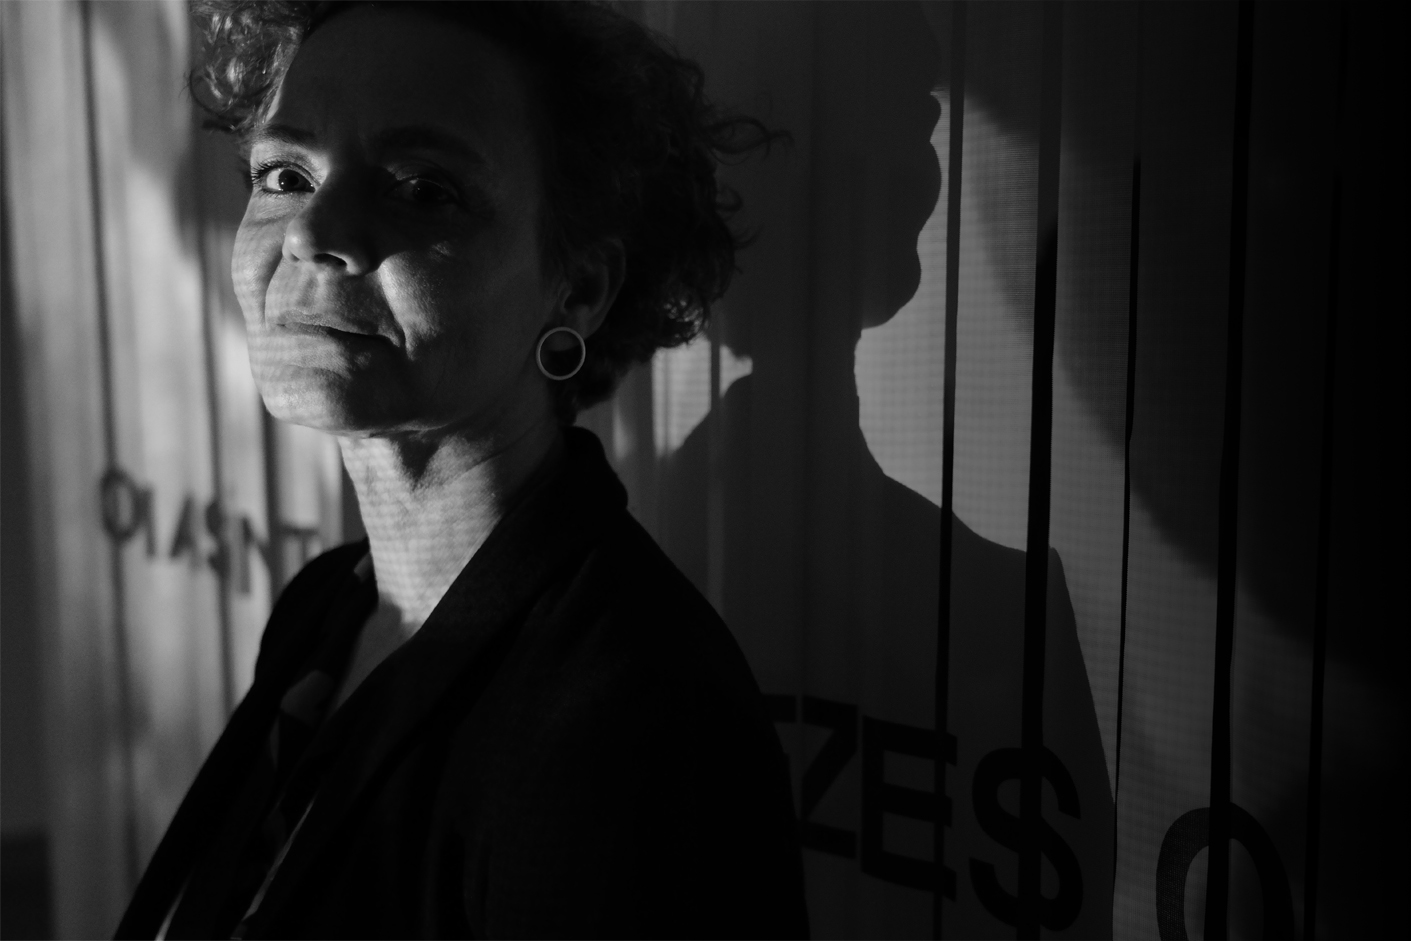
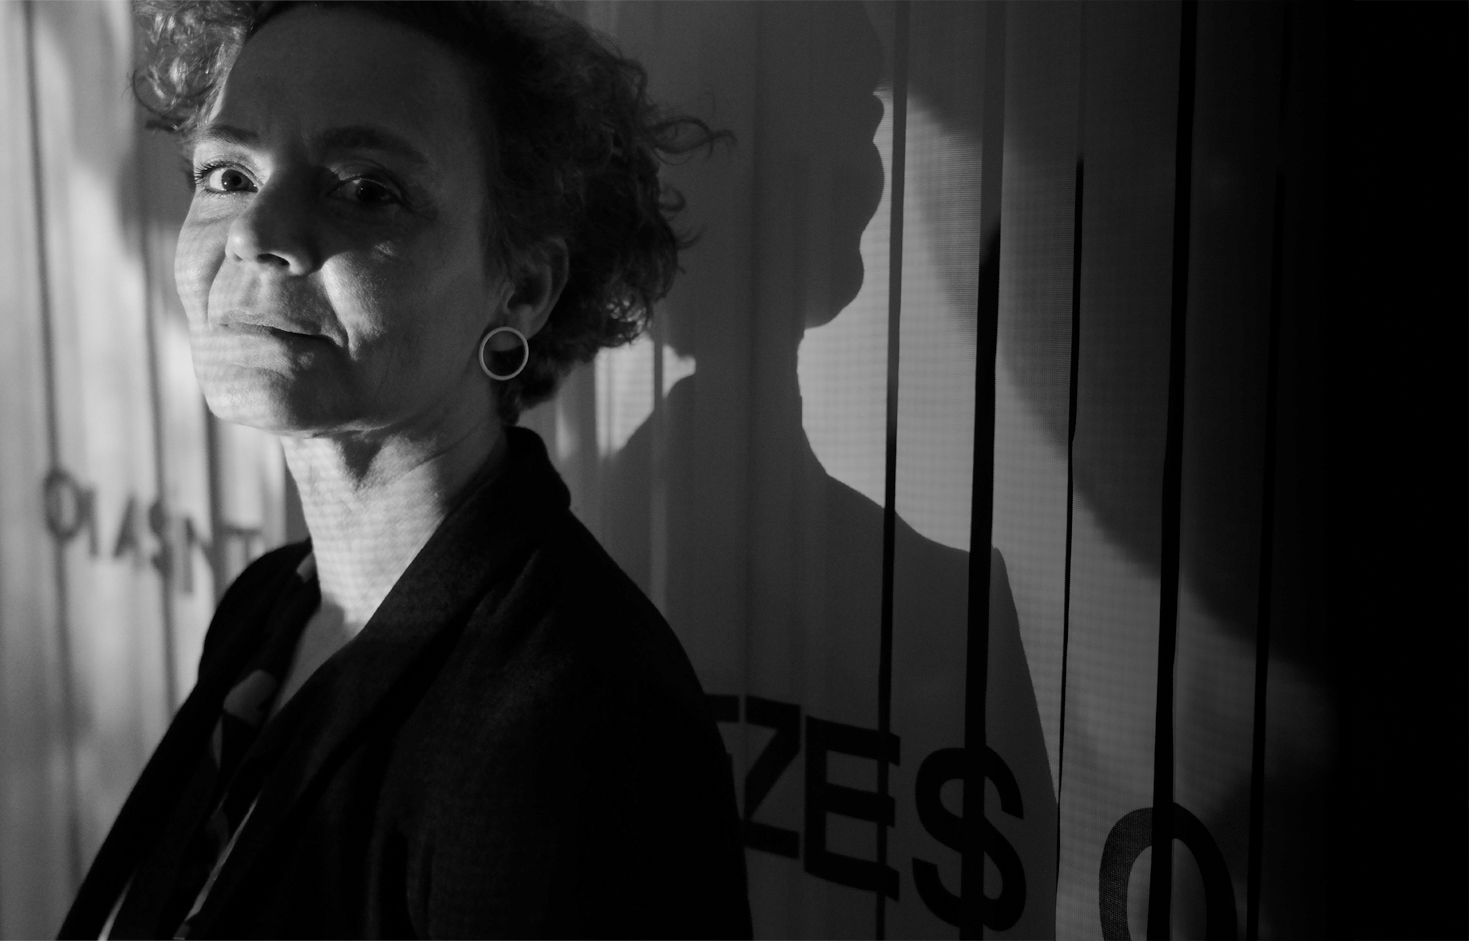
feat: new

diff --git a/src/components/IntroLoader.jsx b/src/components/IntroLoader.jsx
@@ -12,9 +12,12 @@ export function IntroLoader({ onFadeStart, onFinish }) {
 	const [isVisible, setIsVisible] = useState(true);
 	const [isDesktop, setIsDesktop] = useState(true);
 	const [videoReady, setVideoReady] = useState(false);
+	const [hasStarted, setHasStarted] = useState(false);
 
 	const videoRef = useRef(null);
 	const firedFadeRef = useRef(false);
+	const finishTimerRef = useRef(null);
+	const titleTimerRef = useRef(null);
 
 	const videoSrc = isDesktop ? videoDesktop : videoMobile;
 	const posterSrc = isDesktop ? posterDesktop : posterMobile;
@@ -26,6 +29,7 @@ export function IntroLoader({ onFadeStart, onFinish }) {
 		const apply = () => {
 			setIsDesktop(mq.matches);
 			setVideoReady(false);
+			setHasStarted(false);
 		};
 
 		apply();
@@ -35,43 +39,95 @@ export function IntroLoader({ onFadeStart, onFinish }) {
 	}, []);
 
 	useEffect(() => {
+		titleTimerRef.current = setTimeout(() => setShowTitle(true), 2000);
+		return () => clearTimeout(titleTimerRef.current);
+	}, []);
+
+	useEffect(() => {
 		const video = videoRef.current;
 		if (!video) return;
+
+		let cancelled = false;
+
+		const clearFinishTimer = () => {
+			if (finishTimerRef.current) {
+				clearTimeout(finishTimerRef.current);
+				finishTimerRef.current = null;
+			}
+		};
+
+		const startExitTimer = () => {
+			clearFinishTimer();
+
+			finishTimerRef.current = setTimeout(() => {
+				if (cancelled) return;
+
+				if (!firedFadeRef.current) {
+					firedFadeRef.current = true;
+					onFadeStart?.();
+				}
+
+				setIsVisible(false);
+			}, fadeDelay);
+		};
 
 		const tryPlay = async () => {
 			try {
 				video.muted = true;
 				video.defaultMuted = true;
 				video.playsInline = true;
+				video.autoplay = true;
+
 				video.setAttribute('muted', '');
 				video.setAttribute('playsinline', '');
 				video.setAttribute('webkit-playsinline', '');
 
-				await video.play();
+				video.load();
+
+				const playPromise = video.play();
+				if (playPromise !== undefined) {
+					await playPromise;
+				}
+
+				if (!cancelled) {
+					setHasStarted(true);
+					startExitTimer();
+				}
 			} catch (error) {
-				console.warn('Autoplay falhou, poster visível até haver interação.', error);
+				console.warn('Autoplay falhou.', error);
+
+				// fallback: mantém poster e permite skip manual
+				// opcionalmente podes arrancar o fade timer na mesma
+				if (!cancelled) {
+					startExitTimer();
+				}
 			}
 		};
 
-		tryPlay();
-	}, [videoSrc]);
+		const onCanPlay = () => {
+			setVideoReady(true);
+			tryPlay();
+		};
 
-	useEffect(() => {
-		const titleTimer = setTimeout(() => setShowTitle(true), 2000);
+		const onPlaying = () => {
+			setHasStarted(true);
+		};
 
-		const fadeStartTimer = setTimeout(() => {
-			if (!firedFadeRef.current) {
-				firedFadeRef.current = true;
-				onFadeStart?.();
-			}
-			setIsVisible(false);
-		}, fadeDelay);
+		video.addEventListener('canplay', onCanPlay);
+		video.addEventListener('playing', onPlaying);
+
+		// se já vier pronto do cache
+		if (video.readyState >= 3) {
+			onCanPlay();
+		}
 
 		return () => {
-			clearTimeout(titleTimer);
-			clearTimeout(fadeStartTimer);
+			cancelled = true;
+			clearFinishTimer();
+			video.removeEventListener('canplay', onCanPlay);
+			video.removeEventListener('playing', onPlaying);
 		};
-	}, [fadeDelay, onFadeStart]);
+	}, [videoSrc, fadeDelay, onFadeStart]);
 
 	const handleSkip = () => {
 		if (!firedFadeRef.current) {
@@ -109,13 +165,12 @@ export function IntroLoader({ onFadeStart, onFinish }) {
 						key={videoSrc}
 						src={videoSrc}
 						poster={posterSrc}
-						autoPlay
 						muted
+						autoPlay
 						playsInline
-						preload='auto'
+						preload='metadata'
 						onClick={handleSkip}
-						onLoadedData={() => setVideoReady(true)}
-						onCanPlay={() => setVideoReady(true)}
+						onLoadedMetadata={() => setVideoReady(true)}
 						className='absolute inset-0 w-full h-full object-cover z-10'
 						initial={{ opacity: 0 }}
 						animate={{ opacity: videoReady ? 1 : 0 }}

diff --git a/src/pages/WorkSingle.jsx b/src/pages/WorkSingle.jsx
@@ -153,14 +153,8 @@ export function WorkSingle() {
 
 							<div className='col-span-1 flex flex-col'>
 								<AnimatedH1 className='text-[0.85rem] font-[500]'>Data</AnimatedH1>
-								<div className='flex flex-col '>
-									{projeto.data && (
-										<div>
-											<AnimatedPAfterH1>{projeto.data}</AnimatedPAfterH1>
-										</div>
-									)}
-									<AnimatedPAfterH1>{projeto.year}</AnimatedPAfterH1>
-								</div>
+
+								<AnimatedPAfterH1>{projeto.data ? `${projeto.data} ${projeto.year}` : projeto.year}</AnimatedPAfterH1>
 							</div>
 
 							{projeto.local && (
@@ -185,7 +179,7 @@ export function WorkSingle() {
 							)}
 						</div>
 
-						<div className='grid lg:grid-cols-2 lg:gap-x-[100px] gap-y-[30px] pt-[80px]'>
+						<div className='grid lg:grid-cols-2 lg:gap-x-[100px] gap-y-[30px] pt-[30px] lg:pt-[80px]'>
 							{projeto.fichaTecnica?.length > 0 && (
 								<div className='col-span-1 flex flex-col'>
 									<AnimatedH1 className='font-[500] text-[0.85rem]'>Ficha técnica</AnimatedH1>
@@ -248,7 +242,7 @@ export function WorkSingle() {
 										preset='singleSide'
 										alt=''
 										className='w-full'
-										imgClassName='w-full h-auto object-contain opacity-80 transition-transform duration-800 ease-out group-hover:scale-104 cursor-pointer'
+										imgClassName='w-full h-auto object-contain opacity-80 transition-transform duration-800 ease-out group-hover:scale-104 cursor-w-resize'
 										loading='lazy'
 										sizes='20vw'
 									/>
@@ -271,13 +265,13 @@ export function WorkSingle() {
 
 						<div className='col-span-1'>
 							{nextIndex !== null && (
-								<button type='button' className='group block w-full text-left' onClick={() => setCurrentImageIndex(nextIndex)}>
+								<button type='button' className='group block w-full text-left ' onClick={() => setCurrentImageIndex(nextIndex)}>
 									<SanityImage
 										image={projeto.gallery[nextIndex]}
 										preset='singleSide'
 										alt=''
 										className='w-full'
-										imgClassName='w-full h-auto object-contain opacity-80 transition-transform duration-800 ease-out group-hover:scale-104 cursor-pointer'
+										imgClassName='w-full h-auto object-contain opacity-80 transition-transform duration-800 ease-out group-hover:scale-104 cursor-e-resize'
 										loading='lazy'
 										sizes='20vw'
 									/>

diff --git a/index.html b/index.html
@@ -5,8 +5,8 @@
      <link href="https://api.fontshare.com/v2/css?f[]=clash-grotesk@400,500,600&display=swap" rel="stylesheet">
 		<link rel="icon" type="image/svg+xml" href="/src/assets/favicon.ico" />
 		<link rel="shortcut icon" href="/src/assets/favicon.ico" type="image/icon" />
-		<meta name="title" content="Alimento" />
-		<meta name="description" content="ALIMENTO é um projecto de gastronomia experimental fundado por Patrícia Gabriel, em 2014." />
+		<meta name="title" content="ALIMENTO" />
+		<meta name="description" content="Gastronomia experimental por Patrícia Gabriel." />
 		<meta name ="robots" content="index, follow" />
 		<meta name="keywords" content="Patricia Gabriel, Alimento, Alimento Studio, Portugal, Cozinha Multisensorial, Experiência Gastronómica" />
 		<meta http-equiv="Content-Type" content="text/html; charset=utf-8" />
@@ -15,18 +15,18 @@
 		<!-- Open Graph / Facebook -->
 		<meta property="og:type" content="website" />
 		<meta property="og:url" content="www.alimento.studio" />
-		<meta property="og:title" content="Alimento" />
-		<meta property="og:description" content="ALIMENTO é um projecto de gastronomia experimental fundado por Patrícia Gabriel, em 2014." />
+		<meta property="og:title" content="ALIMENTO" />
+		<meta property="og:description" content="Gastronomia experimental por Patrícia Gabriel." />
 		<meta property="og:image" content="/src/assets/og-image.jpg" />
 		<!-- Twitter -->
 		<meta property="twitter:card" content="summary_large_image" />
 		<meta property="twitter:url" content="www.alimento.studio" />
-		<meta property="twitter:title" content="Alimento" />
-		<meta property="twitter:description" content="ALIMENTO é um projecto de gastronomia experimental fundado por Patrícia Gabriel, em 2014." />
+		<meta property="twitter:title" content="ALIMENTO" />
+		<meta property="twitter:description" content="Gastronomia experimental por Patrícia Gabriel." />
 		<meta property="twitter:image" content="/src/assets/og-image.jpg" />
 		<meta name="viewport" content="width=device-width, initial-scale=1.0" />
 	
-		<title>A L I M E N T O</title>
+		<title>ALIMENTO</title>
 	</head>
 	<body>
 		<div id="root"></div>

diff --git a/src/pages/About2.jsx b/src/pages/About2.jsx
@@ -98,7 +98,7 @@ export function About2() {
 					className='fixed inset-0 bg-cover -z-10'
 					style={{
 						backgroundImage: `url(${bg})`,
-						backgroundPosition: '20% center',
+						backgroundPosition: '12% center',
 					}}
 				/>
 
@@ -135,7 +135,7 @@ export function About2() {
 
 						<div className='pt-[60px] text-white grid grid-cols-2 items-baseline'>
 							<AnimatedPAfterH1 className='font-[500] text-[0.85rem] '>
-								<img src={spin} className='w-[100px] pointer-events-none pb-4 ' alt='Spin-off logo' />© <span className='tracking-[0.1em] uppercase'>Alimento</span>, 2026
+								<img src={spin} className='w-[100px] pointer-events-none pb-4 ' alt='Spin-off logo' />© 2026
 							</AnimatedPAfterH1>
 
 							<AnimatedPAfterH1 className='font-[500] text-[0.85rem] text-right'>
